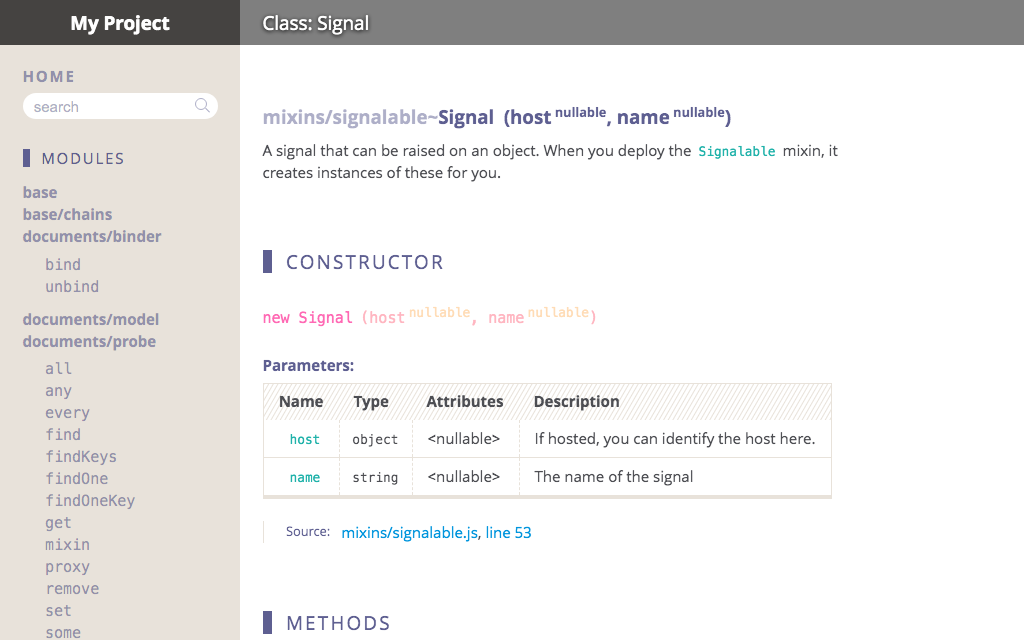
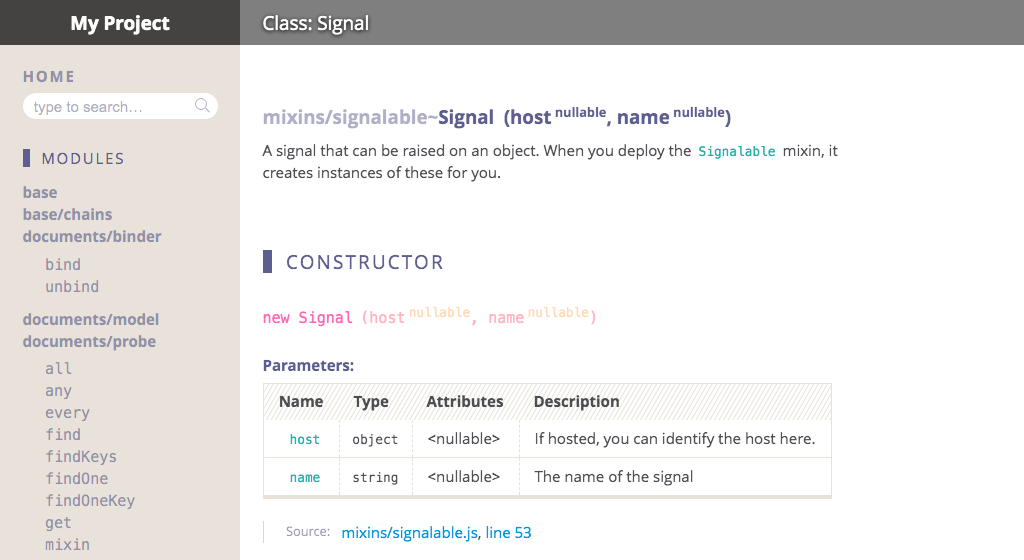
Update gallery

diff --git a/screenshot.js b/screenshot.js
@@ -19,7 +19,7 @@ const puppeteer = require('puppeteer-core');
 	let pages = [
 		{
 			url: base + 'module-mixins_signalable-Signal.html',
-			viewport: [1024, 640],
+			viewport: [1024, 560],
 			scroll: [0, 0],
 			saveAs: 'class.png'
 		}, {
@@ -33,7 +33,7 @@ const puppeteer = require('puppeteer-core');
 			saveAs: 'footer.png'
 		}, {
 			url: base + 'documents_collector.js.html#line7',
-			viewport: [1024, 640],
+			viewport: [1024, 512],
 			saveAs: 'source.png'
 		}, {
 			url: base + 'base_chains.html',
